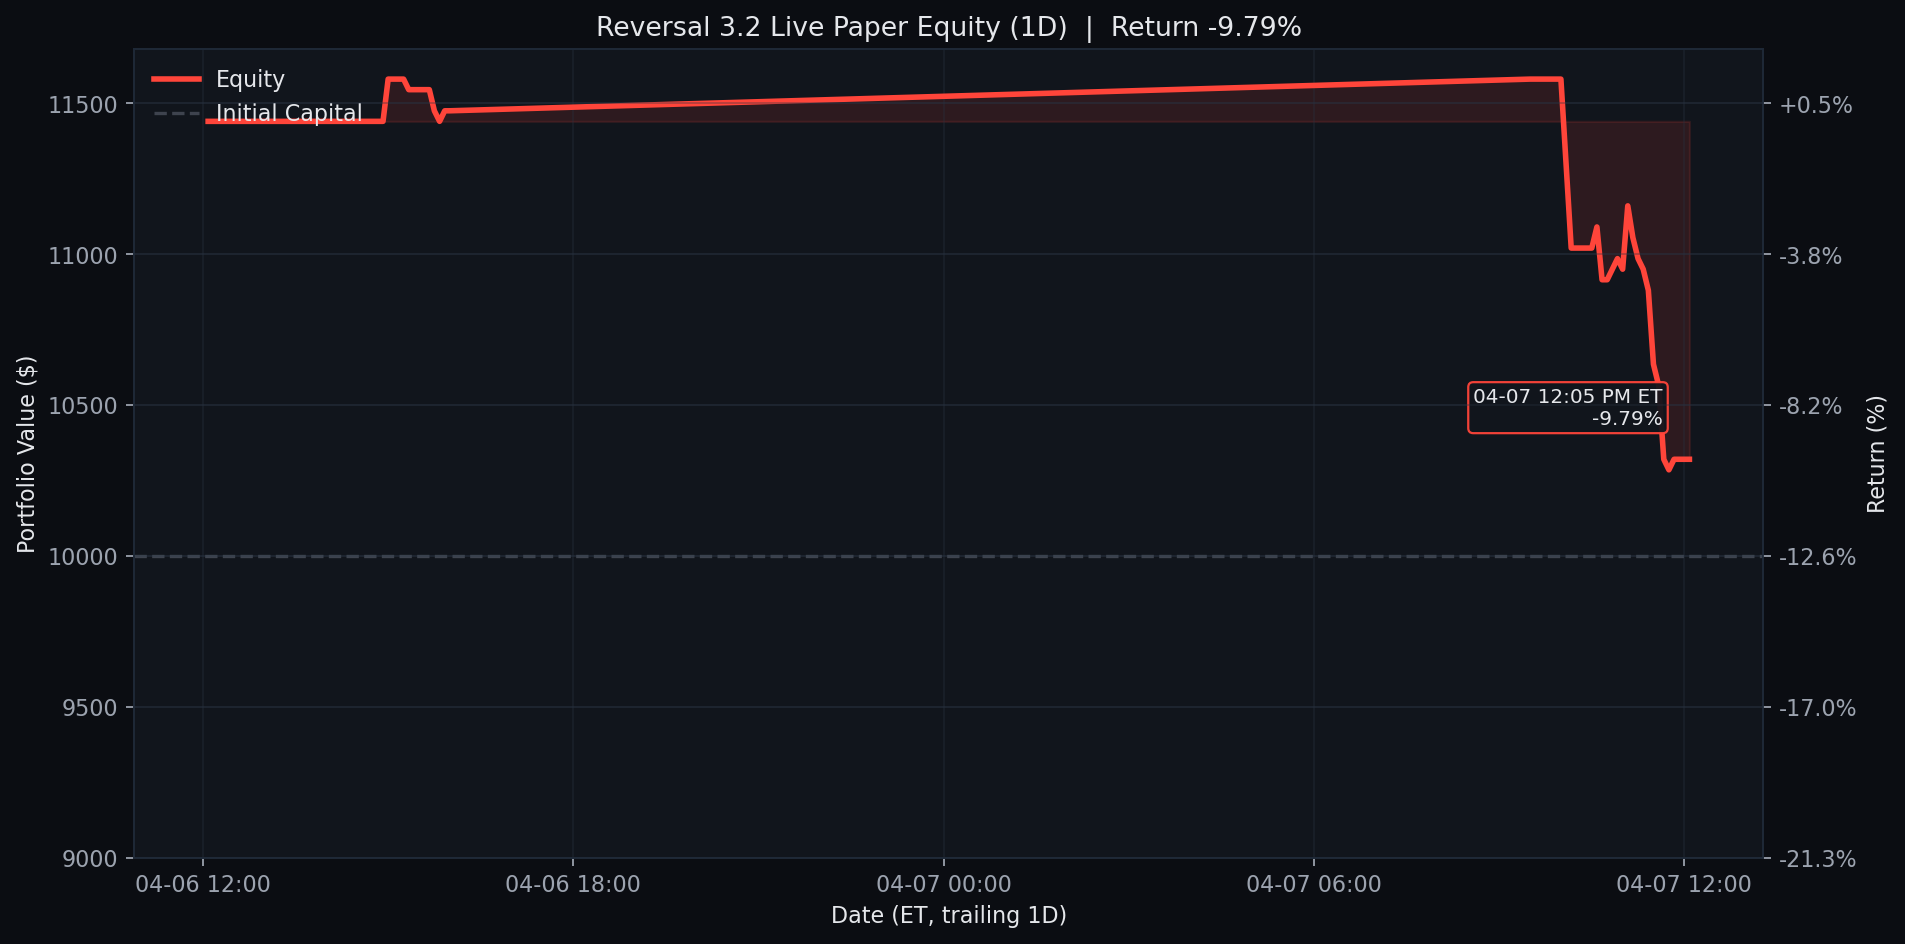
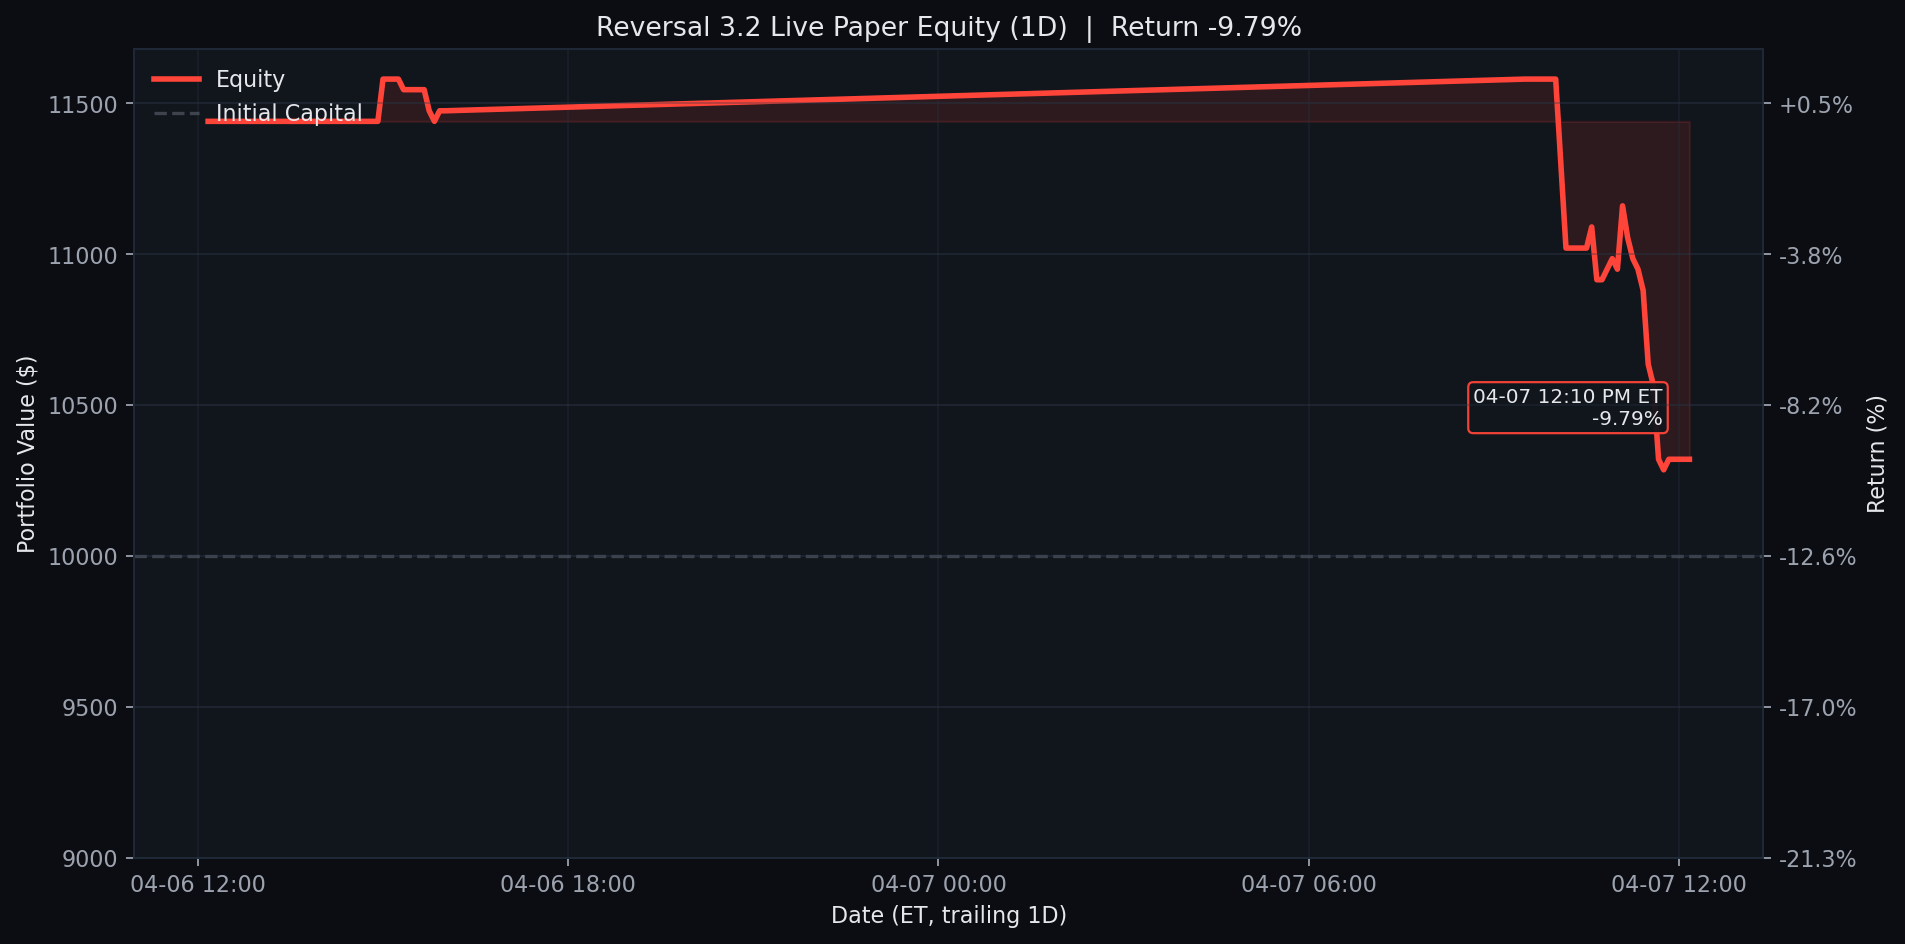
Update Reversal 3.2 live paper test 2026-04-07 12:10 ET

diff --git a/results/reversal_3_2_live/README.md b/results/reversal_3_2_live/README.md
@@ -1,6 +1,6 @@
 # Reversal 3.2 Live Paper Test
 
-Last updated (ET): `2026-04-07 12:05:00 EDT`
+Last updated (ET): `2026-04-07 12:10:05 EDT`
 Last processed slot: `manage_1200`
 
 ## Active Configuration
@@ -40,24 +40,25 @@ ticker    contract_symbol entry_trade_date_et exit_trade_date_et  entry_option_p
 
 ```text
 ticker  success_rate_%  matched_signals  current_drop_%  target_rebound_$  target_price  rolling_sigma_20d_%  call_candidate
-  TSLA          100.00               13            3.44              8.48        349.18                42.33            True
-  MRVL           96.43               28            1.64              1.26        108.97                70.84            True
-  REGN           95.65               23            1.36              7.27        759.93                25.24            True
-  UPRO           92.59               27            1.77              1.25        100.21                53.86            True
-  NVDA           92.31               26            1.24              1.55        176.98                33.70            True
-  CDNS           90.91               44            0.78              1.52        278.74                25.26            True
-  ABNB           90.62               32            1.25              1.11        126.33                36.80            True
-  COST           90.32               31            0.61              4.37       1016.68                13.04            True
-  ORLY           90.24               41            0.56              0.36         91.97                23.11            True
-  PCAR           89.19               37            0.72              0.60        118.06                21.97            True
-  SNPS           88.89               45            0.64              1.78        396.31                35.70            True
-  ASML           88.89               36            0.58              5.31       1301.74                47.16            True
+  TSLA          100.00               11            3.58              8.85        349.03                42.33            True
+  MRVL           96.30               27            1.76              1.35        108.93                70.84            True
+  REGN           95.65               23            1.35              7.22        759.95                25.24            True
+  UPRO           92.31               26            1.89              1.33        100.17                53.86            True
+  NVDA           92.00               25            1.41              1.75        176.89                33.70            True
+  MPWR           91.89               37            0.51              4.24       1178.21                51.99            True
+  CDNS           90.91               44            0.89              1.74        278.64                25.26            True
+  ABNB           90.32               31            1.33              1.18        126.30                36.80            True
+  COST           90.32               31            0.67              4.75       1016.52                13.04            True
+  ORLY           89.74               39            0.62              0.40         91.96                23.11            True
+  SNPS           88.89               45            0.51              1.43        396.46                35.70            True
+  PCAR           88.89               36            0.74              0.62        118.06                21.97            True
 ```
 
 ## Recent Events
 
 ```text
                     timestamp_et        slot   event_type                                                                                                                              detail
+2026-04-07T12:10:05.880109-04:00 manage_1200 slot_skipped                                                                                                     {"reason": "already_processed"}
 2026-04-07T12:05:00.898216-04:00 manage_1200 slot_skipped                                                                                                     {"reason": "already_processed"}
 2026-04-07T12:00:02.896423-04:00 manage_1200 slot_skipped                                                                                                     {"reason": "already_processed"}
 2026-04-07T11:55:05.888145-04:00 manage_1200 slot_skipped                                                                                                     {"reason": "already_processed"}
@@ -67,7 +68,6 @@ ticker  success_rate_%  matched_signals  current_drop_%  target_rebound_$  targe
 2026-04-07T11:30:02.894028-04:00 manage_1130 slot_skipped                                                                                                     {"reason": "already_processed"}
 2026-04-07T11:25:05.887847-04:00 manage_1130 slot_skipped                                                                                                     {"reason": "already_processed"}
 2026-04-07T11:10:00.929829-04:00 manage_1100 slot_skipped                                                                                                     {"reason": "already_processed"}
-2026-04-07T11:05:05.886675-04:00 manage_1100 slot_skipped                                                                                                     {"reason": "already_processed"}
 ```
 
 ## Equity Curves
@@ -77,20 +77,20 @@ Each chart is generated from the same live equity series with no-lookahead marks
 <details>
 <summary><strong>1D</strong></summary>
 
-![Reversal 3.2 Live Equity 1D](../../assets/reversal_3_2_live_equity_1d.png?v=20260407120500)
+![Reversal 3.2 Live Equity 1D](../../assets/reversal_3_2_live_equity_1d.png?v=20260407121005)
 
 </details>
 
 <details open>
 <summary><strong>1W</strong></summary>
 
-![Reversal 3.2 Live Equity 1W](../../assets/reversal_3_2_live_equity.png?v=20260407120500)
+![Reversal 3.2 Live Equity 1W](../../assets/reversal_3_2_live_equity.png?v=20260407121005)
 
 </details>
 
 <details>
 <summary><strong>1M</strong></summary>
 
-![Reversal 3.2 Live Equity 1M](../../assets/reversal_3_2_live_equity_1m.png?v=20260407120500)
+![Reversal 3.2 Live Equity 1M](../../assets/reversal_3_2_live_equity_1m.png?v=20260407121005)
 
 </details>

diff --git a/README.md b/README.md
@@ -3,7 +3,7 @@
 <!-- reversal-3.2-live:start -->
 ## Reversal 3.2 Live Paper Test
 
-- Last updated (ET): `2026-04-07 12:05:00 EDT`
+- Last updated (ET): `2026-04-07 12:10:05 EDT`
 - Equity: `$10,320.00` | Realized: `$320.00` | Unrealized: `$0.00` | Open positions: `0`
 - Today closed trades: `1`
 - Current slot: `manage_1200`
@@ -17,21 +17,21 @@ _None_
 <details>
 <summary><strong>1D</strong></summary>
 
-![Reversal 3.2 Live Equity 1D](assets/reversal_3_2_live_equity_1d.png?v=20260407120500)
+![Reversal 3.2 Live Equity 1D](assets/reversal_3_2_live_equity_1d.png?v=20260407121005)
 
 </details>
 
 <details open>
 <summary><strong>1W</strong></summary>
 
-![Reversal 3.2 Live Equity 1W](assets/reversal_3_2_live_equity.png?v=20260407120500)
+![Reversal 3.2 Live Equity 1W](assets/reversal_3_2_live_equity.png?v=20260407121005)
 
 </details>
 
 <details>
 <summary><strong>1M</strong></summary>
 
-![Reversal 3.2 Live Equity 1M](assets/reversal_3_2_live_equity_1m.png?v=20260407120500)
+![Reversal 3.2 Live Equity 1M](assets/reversal_3_2_live_equity_1m.png?v=20260407121005)
 
 </details>
 
